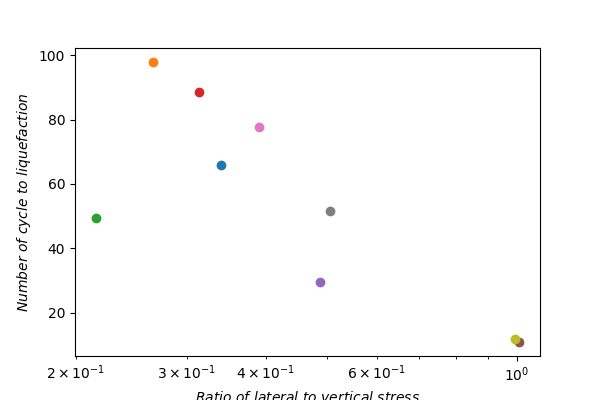
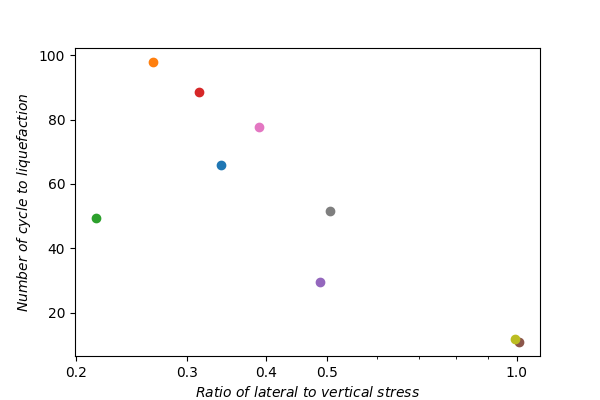
k0 effect on liquefaction updated; ready for merge with remote

diff --git a/experiment/experiment.html b/experiment/experiment.html
@@ -17,25 +17,34 @@
 <body>
 	<h2 style="text-align: left;">Experimental validation of K<sub>0</sub> effects on liquefaction resistance</h1>
 	<p>
-		Data240829: <a href="test240829/p-tau.png">p-tau</a><span style="color: red"> (Updated on 30 Aug 2024, K<sub>0</sub>=1.0)</span>
+		<a href="k0_effect.png"><img src="k0_effect.png" alt="icon" width="512" height="420"/></a>
 	</p>
 	<p>
-		Data240902: <a href="test240902/p-tau.png">p-tau</a> <a href="experiment/test240902/gamma-tau.png">gamma-tau</a> <span style="color: red"> (Updated on 2 Sep 2024, K<sub>0</sub>=1.0)</span>
+		Data240829: <a href="test240829/shear.csv">download</a> <a href="test240829/p-tau.png">p-tau</a><span style="color: red"> (Updated on 30 Aug 2024, K<sub>0</sub>=1.0)</span>
 	</p>
 	<p>
-		Data240909: <a href="test240909/p-tau.png">p-tau</a> <span style="color: red"> (Updated on 10 Sep 2024, K<sub>0</sub>=0.5)</span>
+		Data240902: <a href="test240902/shear.csv">download</a> <a href="test240902/p-tau.png">p-tau</a> <a href="test240902/gamma-tau.png">gamma-tau</a> <span style="color: red"> (Updated on 2 Sep 2024, K<sub>0</sub>=1.0)</span>
 	</p>
 	<p>
-		Data240910: <a href="test240910/p-tau.png">p-tau</a> <a href="experiment/test240910/gamma-tau.png">gamma-tau</a> <span style="color: red"> (Updated on 10 Sep 2024, K<sub>0</sub>=0.5)</span>
+		Data240909: <a href="test240909/shear.csv">download</a> <a href="test240909/p-tau.png">p-tau</a> <span style="color: red"> (Updated on 10 Sep 2024, K<sub>0</sub>=0.5)</span>
 	</p>
 	<p>
-		Data240911: <a href="test240911/p-tau.png">p-tau</a> <a href="experiment/test240911/gamma-tau.png">gamma-tau</a> <span style="color: red"> (Updated on 12 Sep 2024, K<sub>0</sub>=0.4)</span>
+		Data240910: <a href="test240910/shear.csv">download</a> <a href="test240910/p-tau.png">p-tau</a> <a href="test240910/gamma-tau.png">gamma-tau</a> <span style="color: red"> (Updated on 10 Sep 2024, K<sub>0</sub>=0.5)</span>
 	</p>
 	<p>
-		Data240912: <a href="test240912/p-tau.png">p-tau</a> <span style="color: red"> (Updated 12 Sep 2024, K<sub>0</sub>=0.33)</span>
+		Data240911: <a href="test240911/shear.csv">download</a> <a href="test240911/p-tau.png">p-tau</a> <a href="test240911/gamma-tau.png">gamma-tau</a> <span style="color: red"> (Updated on 12 Sep 2024, K<sub>0</sub>=0.4)</span>
 	</p>
 	<p>
-		Data240913: <a href="test240913/p-tau.png">p-tau</a> <span style="color: red"> (Updated 13 Sep 2024, K<sub>0</sub>=0.30)</span>
+		Data240912: <a href="test240912/shear.csv">download</a> <a href="test240912/p-tau.png">p-tau</a> <span style="color: red"> (Updated 12 Sep 2024, K<sub>0</sub>=0.33)</span>
+	</p>
+	<p>
+		Data240913: <a href="test240913/shear.csv">download</a> <a href="test240913/p-tau.png">p-tau</a> <span style="color: red"> (Updated 13 Sep 2024, K<sub>0</sub>=0.30)</span>
+	</p>
+	<p>
+		Data241008: <a href="test241008/shear.csv">download</a> <a href="test241008/p-tau.png">p-tau</a> <a href="test241008/gamma-tau.png">gamma-tau</a> <span style="color: red"> (Updated 09 Oct 2024, K<sub>0</sub>=0.25)</span>
+	</p>
+	<p>
+		Data241009: <a href="test241009/shear.csv">download</a> <a href="test241009/p-tau.png">p-tau</a> <a href="test241009/gamma-tau.png">gamma-tau</a> <span style="color: red"> (Updated 09 Oct 2024, K<sub>0</sub>=0.20)</span>
 	</p>
 </body>
 </html>

diff --git a/experiment/k0_effect.py b/experiment/k0_effect.py
@@ -1,3 +1,4 @@
+import matplotlib
 import matplotlib.pyplot as plt
 import numpy as np
 import pandas as pd
@@ -45,6 +46,7 @@ def get_k0_cycle():
 			k0 = (lateral_stress[index_begin]/
 				(lateral_stress[index_begin]+axial_stress[index_begin]))
 
+
 			time_begin = time[index_begin]
 			time_liq = time[index_liq] - time_begin
 			cycle_liq = time_liq/10.0
@@ -54,7 +56,15 @@ get_k0_cycle()
 
 ax.set_xlabel(r"$Ratio\ of\ lateral\ to\ vertical\ stress$")
 ax.set_ylabel(r"$Number\ of\ cycle\ to\ liquefaction$")
+# ax.set_yscale('log')
 ax.set_xscale('log')
+ax.set_xticks([0.2, 0.3, 0.4, 0.5, 1.0])
+# ax.set_xticklabels([0.2, 0.3, 0.4, 0.5, 1.0])
+ax.get_xaxis().set_minor_formatter(matplotlib.ticker.ScalarFormatter())
+ax.get_xaxis().set_minor_formatter(matplotlib.ticker.NullFormatter())
+ax.get_xaxis().set_major_formatter(matplotlib.ticker.ScalarFormatter())
+# ax.get_xaxis().get_major_formatter().labelOnlyBase = False
+
 
 plt.savefig('k0_effect.png')
 plt.show()

diff --git a/experiment/test241009/draw_p_tau.py b/experiment/test241009/draw_p_tau.py
@@ -39,8 +39,8 @@ def get_index_liq(lateral_stress, index_begin):
 
 index_liq = get_index_liq(lateral_stress, index_begin)
 
-effe_stress = effe_stress[index_begin:index_liq]
-shear_stress = shear_stress[index_begin:index_liq]
+effe_stress = effe_stress[index_begin:]
+shear_stress = shear_stress[index_begin:]
 
 time_begin = time[index_begin]
 time_liq = time[index_liq] - time_begin
